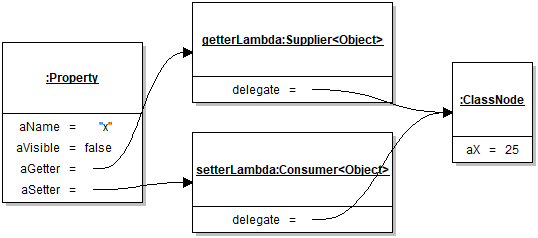
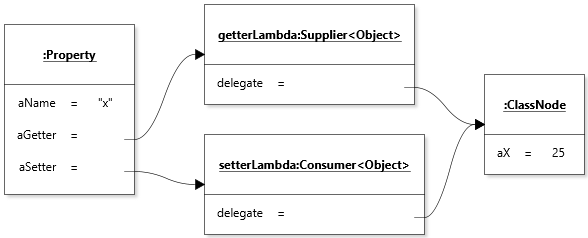
#427 Remove support for invisible properties

diff --git a/test/ca/mcgill/cs/jetuml/diagram/TestProperties.java b/test/ca/mcgill/cs/jetuml/diagram/TestProperties.java
@@ -25,7 +25,6 @@ import static ca.mcgill.cs.jetuml.testutils.CollectionAssertions.extract;
 import static ca.mcgill.cs.jetuml.testutils.CollectionAssertions.hasElementsEqualTo;
 import static org.junit.jupiter.api.Assertions.assertEquals;
 import static org.junit.jupiter.api.Assertions.assertFalse;
-import static org.junit.jupiter.api.Assertions.assertTrue;
 
 import java.util.Iterator;
 import java.util.List;
@@ -70,7 +69,6 @@ public class TestProperties
 		Property prop = aProperties.get("test");
 		assertEquals("test", prop.getName());
 		assertEquals("", prop.get());
-		assertTrue(prop.isVisible());
 	}
 	
 	@Test
@@ -81,14 +79,12 @@ public class TestProperties
 		Property prop = aProperties.get("test");
 		assertEquals("test", prop.getName());
 		assertEquals("", prop.get());
-		assertTrue(prop.isVisible());
 		
 		aProperties.add("test2", () -> aStub.aValue + "X", val -> aStub.aValue = (String) val + "X");
 		assertEquals(2, size());
 		prop = aProperties.get("test2");
 		assertEquals("test2", prop.getName());
 		assertEquals("X", prop.get());
-		assertTrue(prop.isVisible());
 	}
 	
 	@Test
@@ -100,46 +96,6 @@ public class TestProperties
 		Property prop = aProperties.get("test");
 		assertEquals("test", prop.getName());
 		assertEquals("", prop.get());
-		assertTrue(prop.isVisible());
-	}
-	
-	@Test
-	public void testAddInvisible()
-	{
-		aProperties.addInvisible("test", () -> aStub.aValue, val -> aStub.aValue = (String) val);
-		assertEquals(1, size());
-		Property prop = aProperties.get("test");
-		assertEquals("test", prop.getName());
-		assertEquals("", prop.get());
-		assertFalse(prop.isVisible());
-	}
-	
-	@Test
-	public void testAddInvisibleTwice()
-	{
-		aProperties.addInvisible("test", () -> aStub.aValue, val -> aStub.aValue = (String) val);
-		aProperties.addInvisible("test", () -> aStub.aValue + "X", val -> aStub.aValue = (String) val + "Y");
-		assertEquals(1, size());
-		Property prop = aProperties.get("test");
-		assertEquals("test", prop.getName());
-		assertEquals("", prop.get());
-		assertFalse(prop.isVisible());
-	}
-	
-	@Test
-	public void testAddVisibleInvisible()
-	{
-		aProperties.add("visible", () -> aStub.aValue, val -> aStub.aValue = (String) val);
-		aProperties.addInvisible("invisible", () -> "INVISIBLE", val -> {});
-		assertEquals(2, size());
-		Property prop = aProperties.get("visible");
-		assertEquals("visible", prop.getName());
-		assertEquals("", prop.get());
-		assertTrue(prop.isVisible());
-		prop = aProperties.get("invisible");
-		assertEquals("invisible", prop.getName());
-		assertEquals("INVISIBLE", prop.get());
-		assertFalse(prop.isVisible());
 	}
 	
 	@Test
@@ -150,7 +106,6 @@ public class TestProperties
 		Property prop = aProperties.iterator().next();
 		assertEquals("test", prop.getName());
 		assertEquals("", prop.get());
-		assertTrue(prop.isVisible());
 	}
 	
 	@Test

diff --git a/src/ca/mcgill/cs/jetuml/diagram/Properties.java b/src/ca/mcgill/cs/jetuml/diagram/Properties.java
@@ -47,7 +47,7 @@ public class Properties implements Iterable<Property>
 	private final List<Property> aProperties = new ArrayList<>();
 	
 	/**
-	 * Adds a visible property to the list. The property is added at the end of the list.
+	 * Adds a property to the end of the list.
 	 * 
 	 * @param pName The name of the property.
 	 * @param pGetter The getter for this property.
@@ -59,7 +59,7 @@ public class Properties implements Iterable<Property>
 		assert pName != null && pGetter != null & pSetter != null;
 		if( !contains(pName) )
 		{
-			aProperties.add(new Property(pName, pGetter, pSetter, true));
+			aProperties.add(new Property(pName, pGetter, pSetter));
 		}
 	}
 	
@@ -99,24 +99,7 @@ public class Properties implements Iterable<Property>
 	}
 	
 	/**
-	 * Adds an invisible property to the list. The property is added at the end of the list.
-	 * 
-	 * @param pName The name of the property.
-	 * @param pGetter The getter for this property.
-	 * @param pSetter The setter for this property.
-	 * @pre pPropertyName != null && pGetter != null && pSetter != null
-	 */
-	public void addInvisible(String pName, Supplier<Object> pGetter, Consumer<Object> pSetter)
-	{
-		assert pName != null && pGetter != null & pSetter != null;
-		if( !contains(pName) )
-		{
-			aProperties.add(new Property(pName, pGetter, pSetter, false));
-		}
-	}
-	
-	/**
-	 * Adds a visible property and inserts its key at the specified index, shifting
+	 * Adds a property and inserts its key at the specified index, shifting
 	 * all other properties down by one. If the property already exists, its previous index
 	 * is unchanged and its getter and setter are silently overwritten.
 	 * 
@@ -131,7 +114,7 @@ public class Properties implements Iterable<Property>
 		assert pIndex >=0 && pIndex <= aProperties.size();
 		if( !contains(pName) )
 		{
-			aProperties.add(pIndex, new Property(pName, pGetter, pSetter, true));
+			aProperties.add(pIndex, new Property(pName, pGetter, pSetter));
 		}
 	}
 

diff --git a/src/ca/mcgill/cs/jetuml/diagram/Property.java b/src/ca/mcgill/cs/jetuml/diagram/Property.java
@@ -26,18 +26,13 @@ import java.util.function.Supplier;
 /**
  * Represents a property of an object as a tuple that 
  * consists of a name, a getter for a value, and a setter
- * for that value, and a flag indicating whether the property
- * is visible or not. The distinction between visible and invisible
- * properties can be used, e.g., when creating UI components.
- * 
- * The values managed by a property should only be of immutable types.
+ * for that value. The values managed by a property should only be of immutable types.
  */
 public class Property
 {
 	private final String aName;
 	private final Supplier<Object> aGetter;
 	private final Consumer<Object> aSetter;
-	private final boolean aVisible;
 	
 	/**
 	 * Creates a new property.
@@ -45,16 +40,14 @@ public class Property
 	 * @param pName The name of the property.
 	 * @param pGetter The getter for the property.
 	 * @param pSetter The setter for the property.
-	 * @param pVisible True if this is a visible property.
 	 * @pre pName != null && pGetter != null && pSetter != null.
 	 */
-	public Property(String pName, Supplier<Object> pGetter, Consumer<Object> pSetter, boolean pVisible)
+	public Property(String pName, Supplier<Object> pGetter, Consumer<Object> pSetter)
 	{
 		assert pName != null && pGetter != null && pSetter != null;
 		aName = pName;
 		aGetter = pGetter;
 		aSetter = pSetter;
-		aVisible = pVisible;
 	}
 	
 	/**
@@ -63,14 +56,6 @@ public class Property
 	public String getName()
 	{
 		return aName;
-	}
-	
-	/**
-	 * @return True if this is a visible property.
-	 */
-	public boolean isVisible()
-	{
-		return aVisible;
 	}
 	
 	/**

diff --git a/test/ca/mcgill/cs/jetuml/diagram/TestProperty.java b/test/ca/mcgill/cs/jetuml/diagram/TestProperty.java
@@ -21,7 +21,6 @@
 package ca.mcgill.cs.jetuml.diagram;
 
 import static org.junit.jupiter.api.Assertions.assertEquals;
-import static org.junit.jupiter.api.Assertions.assertTrue;
 
 import org.junit.jupiter.api.Test;
 
@@ -32,10 +31,9 @@ public class TestProperty
 	{
 		class Stub { String aValue = "value"; }
 		Stub stub = new Stub();
-		Property property = new Property("test", () -> stub.aValue, newval -> stub.aValue = (String) newval, true);
+		Property property = new Property("test", () -> stub.aValue, newval -> stub.aValue = (String) newval);
 		assertEquals("test", property.getName());
 		assertEquals("value", property.get());
-		assertTrue(property.isVisible());
 		
 		property.set("foo");
 		assertEquals("foo", property.get());

diff --git a/src/ca/mcgill/cs/jetuml/gui/PropertySheet.java b/src/ca/mcgill/cs/jetuml/gui/PropertySheet.java
@@ -85,7 +85,7 @@ public class PropertySheet extends GridPane
 		for( Property property : aElement.properties() )
 		{
 			Control editor = getEditorControl(property);
-			if(property.isVisible() && editor != null )
+			if( editor != null )
 			{
 				add(new Label(getPropertyName(pElement.getClass(), property.getName())), 0, row);
 				add(editor, 1, row);

diff --git a/docs/functional/properties.md b/docs/functional/properties.md
@@ -23,10 +23,8 @@ The main elements in the design of the properties feature are as follows:
 
 ### Defining a Property
 
-An instance of `Property` consists of four pieces of information:
+An instance of `Property` consists of three pieces of information:
 * The name of the property
-* Whether the property is *visible* (to users) or not. This bit of information is used by the GUI when generating the property page
-for a diagram element.
 * A *setter* for the property.
 * A *getter* for the property.
 
@@ -63,5 +61,4 @@ protected void buildProperties()
 }
 ```
 
-The super call binds to `NamedNode.buildProperties()`, which then calls `super.buildProperties()` and so on. When all superclasses have contributed their properties, control returns to `IntefaceNode.buildProperties()`, which adds the "methods"
-property (the text that describes the methods of an interface).
+The super call binds to `NamedNode.buildProperties()`, which then calls `super.buildProperties()` and so on. When all superclasses have contributed their properties, control returns to `IntefaceNode.buildProperties()`, which adds the "methods" property (the text that describes the methods of an interface).
